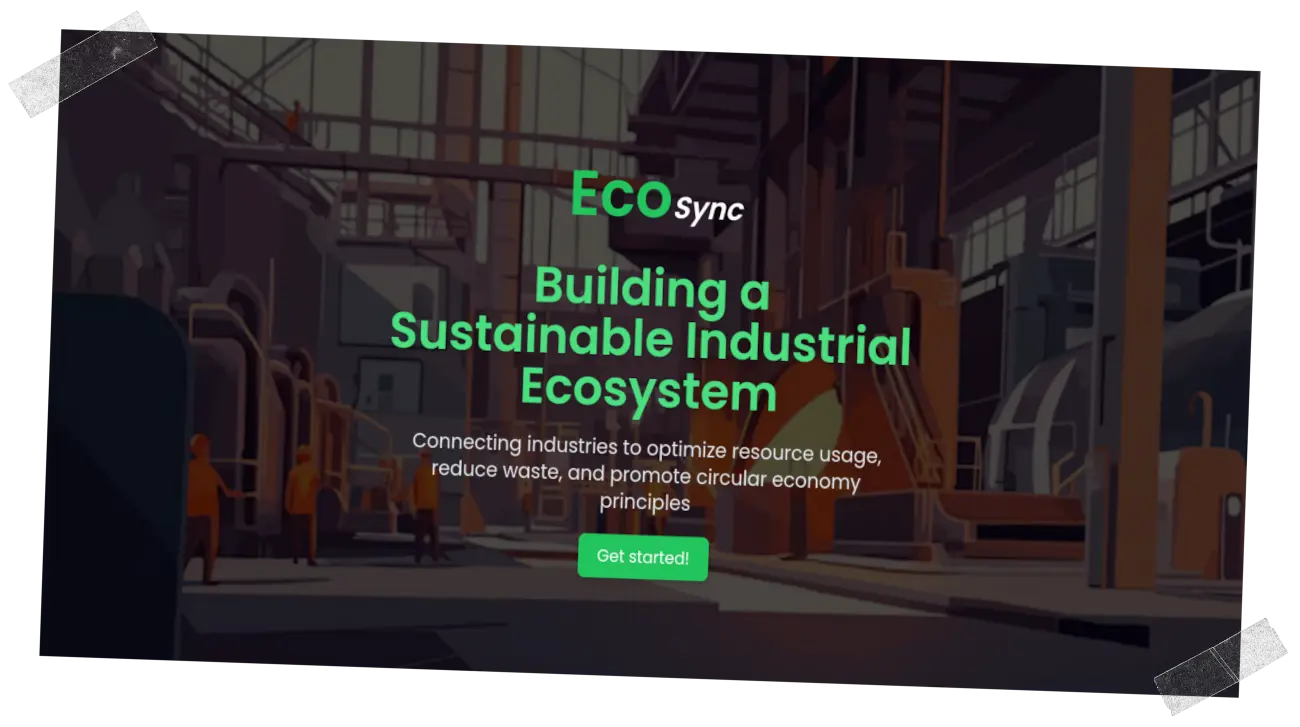
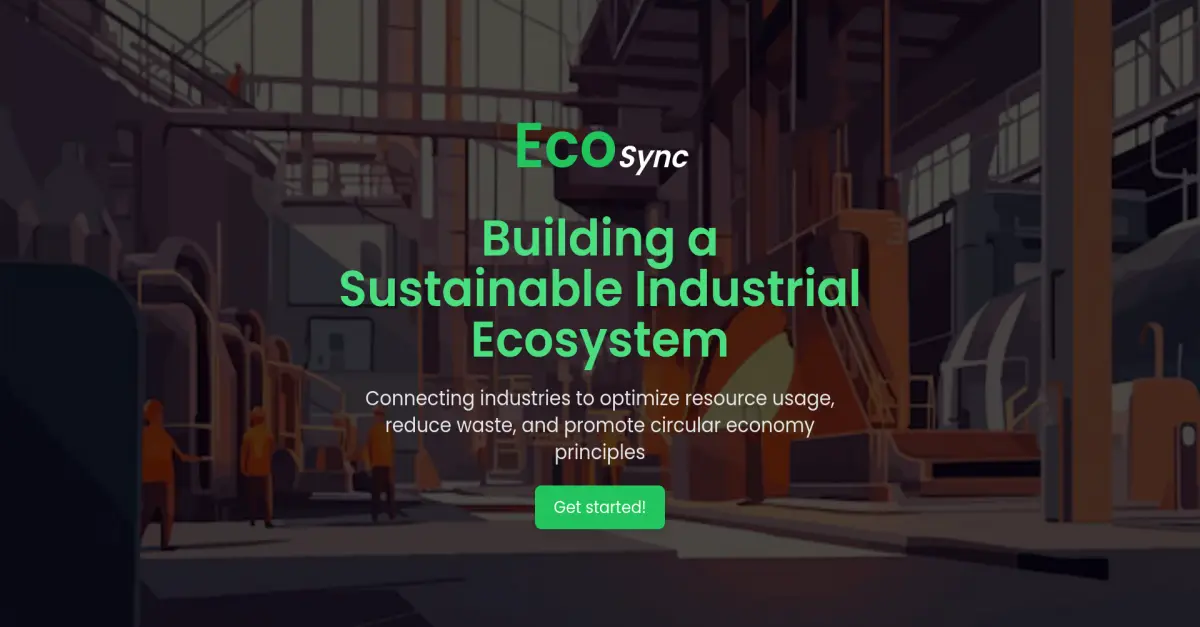
better bg & projects and add figma

diff --git a/styles.css b/styles.css
@@ -18,6 +18,7 @@ body {
 		),
 		repeating-linear-gradient(#f4f4f4, #fff);
 	flex-grow: 1;
+	height: 100vh;
 }
 
 .container {
@@ -265,19 +266,20 @@ a:visited {
 }
 
 .projects-img {
-	transform: translateX(1.4em);
+	transform: translateX(1.45em);
 	width: 100%;
 	max-width: 600px;
 	height: auto;
 	display: block;
-	padding-top: 0.5em;
-	padding-bottom: 0.5em;
+	/*padding-top: 0.5em;
+	padding-bottom: 0.5em;*/
 	opacity: 0;
 	animation: fadeIn 0.5s ease forwards;
 }
 
 .projects-b {
 	transform: translateX(-1.4em);
+	padding-top: 15px;
 	padding-bottom: 1em;
 	animation: fadeIn 0.5s ease forwards;
 }
@@ -301,6 +303,7 @@ a:visited {
 }
 
 .projects-img-1 {
+	box-shadow: 10px 10px #d8a75c;
 	animation-delay: 0.3s;
 }
 
@@ -313,6 +316,7 @@ a:visited {
 }
 
 .projects-img-2 {
+	box-shadow: 10px 10px #22c55e;
 	animation-delay: 0.6s;
 }
 
@@ -325,6 +329,7 @@ a:visited {
 }
 
 .projects-img-3 {
+	box-shadow: 10px 10px #3c825b;
 	animation-delay: 0.9s;
 }
 
@@ -503,7 +508,7 @@ about-b-* is background icon
 	padding: 0 1em;
 	text-align: center;
 	color: #121011;
-	opacity: 0.5;
+	opacity: 0.7;
 	font-size: 0.9em;
 	bottom: 0;
 	width: 100%;

diff --git a/index.html b/index.html
@@ -77,6 +77,7 @@
 						<img src="./icons/NODE.svg" width="auto" height="30">
 						<img src="./icons/SQL.svg" width="auto" height="30">
 						<img src="./icons/TAILWINDCSS.svg" width="auto" height="30">
+						<img src="./icons/FIGMA.svg" width="auto" height="30">
 						<img src="./icons/PYTHON.svg" width="auto" height="30">
 						<img src="./icons/LINUX.svg" width="auto" height="30">
 						<img src="./icons/GIT.svg" width="auto" height="30">
